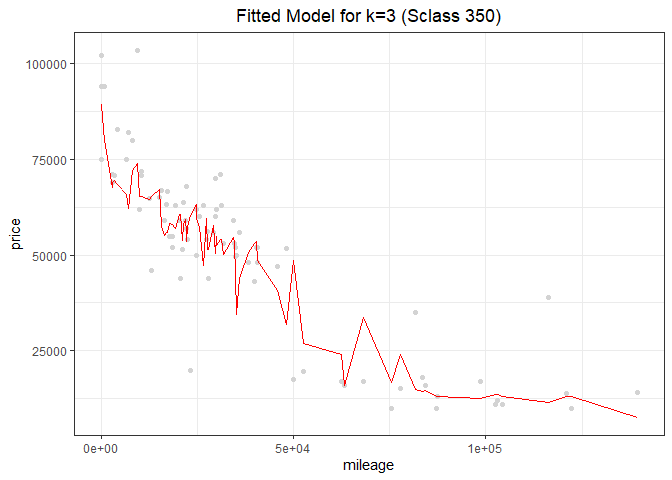
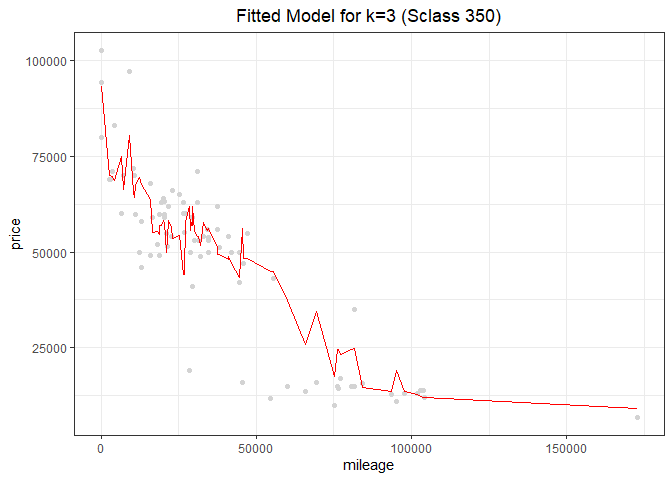
f

diff --git a/hw1.md b/hw1.md
@@ -1,5 +1,22 @@
 By Bernardo Magalhaes, Adhish Luitel, Ji Heon Shim
 
+In this question, we have all the data of flight information that arrive
+at or depart from Austin-Berstrom airport.
+
+### Which destination is likely to cause the longest departure delay?
+
+First, we examined all the aircrafts departing from Austin, and arranged
+departure delays by their destinations. Our analysis shows that
+DTW(Detroit) is the destination which causes the most departure delay
+from Austin.
+
+    ## Warning: Column `Dest`/`iata_code` joining factors with different levels,
+    ## coercing to character vector
+
+    ## Warning: Removed 1 rows containing missing values (position_stack).
+
+![](hw1_files/figure-markdown_github/1.1.2-1.png)
+
 Exercise 1.2
 ============
 
@@ -14,7 +31,6 @@ First, we’ll look on the Sclass 350 data. We can see there’s a negative
 relationship between mileage and price plotted as below
 
 ![](hw1_files/figure-markdown_github/1.2.2-1.png)
-<<<<<<< HEAD
 
 And we splitted Sclass 350 data into two groups. One is “training set”,
 and the other is “test set”. The training set accounts for 80% of whole
@@ -26,14 +42,14 @@ was 3. The fitted model for k=3 is as below, and RSME is 10880.2
 
 ![](hw1_files/figure-markdown_github/1.2.4-1.png)
 
-    ## [1] 11120.39
+    ## [1] 11466.68
 
 When k=20, The fitted model is as below. RSME is 9238.5, which is
 smaller than RSME when k=3.
 
 ![](hw1_files/figure-markdown_github/1.2.5-1.png)
 
-    ## [1] 10310.09
+    ## [1] 10170.71
 
 Now, the fitted model for k=100 below shows us the fact that the graph
 gets smoother as k goes bigger. But RSME when k=100 is 10483.9, which is
@@ -42,7 +58,7 @@ minimizes RSME will be somewhere between k=3 and k=100.
 
 ![](hw1_files/figure-markdown_github/1.2.6-1.png)
 
-    ## [1] 12026.88
+    ## [1] 11403.42
 
 In order to find the optimal k, we plotted k versus RSME for every k.
 The graph below shows that RSME is minimized to 9134.4 when k equals to
@@ -52,9 +68,9 @@ samples are randomly chosen.
 
 ![](hw1_files/figure-markdown_github/1.2.7-1.png)
 
-    ## [1] 14
+    ## [1] 12
 
-    ## [1] 9962.66
+    ## [1] 9976.861
 
 The graph below shows the plot of the fitted value when k is the optimal
 value.
@@ -75,14 +91,14 @@ k=3 is as below, and RSME is 21822.8
 
 ![](hw1_files/figure-markdown_github/1.2.11-1.png)
 
-    ## [1] 26691.87
+    ## [1] 24957.24
 
 When k=20, The fitted model is as below. RSME is 22546.5, which is
 slightly bigger than RSME when k=3.
 
 ![](hw1_files/figure-markdown_github/1.2.12-1.png)
 
-    ## [1] 23582.43
+    ## [1] 24200.68
 
 Now, the fitted model for k=100 below shows us the fact that the graph
 gets smoother as k goes bigger. But RSME when k=100 is 40928.0, which is
@@ -91,7 +107,7 @@ must be much smaller than 100.
 
 ![](hw1_files/figure-markdown_github/1.2.13-1.png)
 
-    ## [1] 33074.09
+    ## [1] 33110.56
 
 In order to find the optimal k, we plotted k versus RSME for every k
 value. The graph below shows that RSME is minimized to 21037.7 when k
@@ -99,9 +115,9 @@ equals to 4.
 
 ![](hw1_files/figure-markdown_github/1.2.14-1.png)
 
-    ## [1] 54
+    ## [1] 5
 
-    ## [1] 22673.12
+    ## [1] 23219.28
 
 The graph below shows the plot of fitted model when k is optimally
 chosen.
@@ -132,5 +148,3 @@ count(sclass_65AMG)
     ##       n
     ##   <int>
     ## 1   292
-=======
->>>>>>> fd943f953e6e7761a1204c213ead1070f9b61f71
